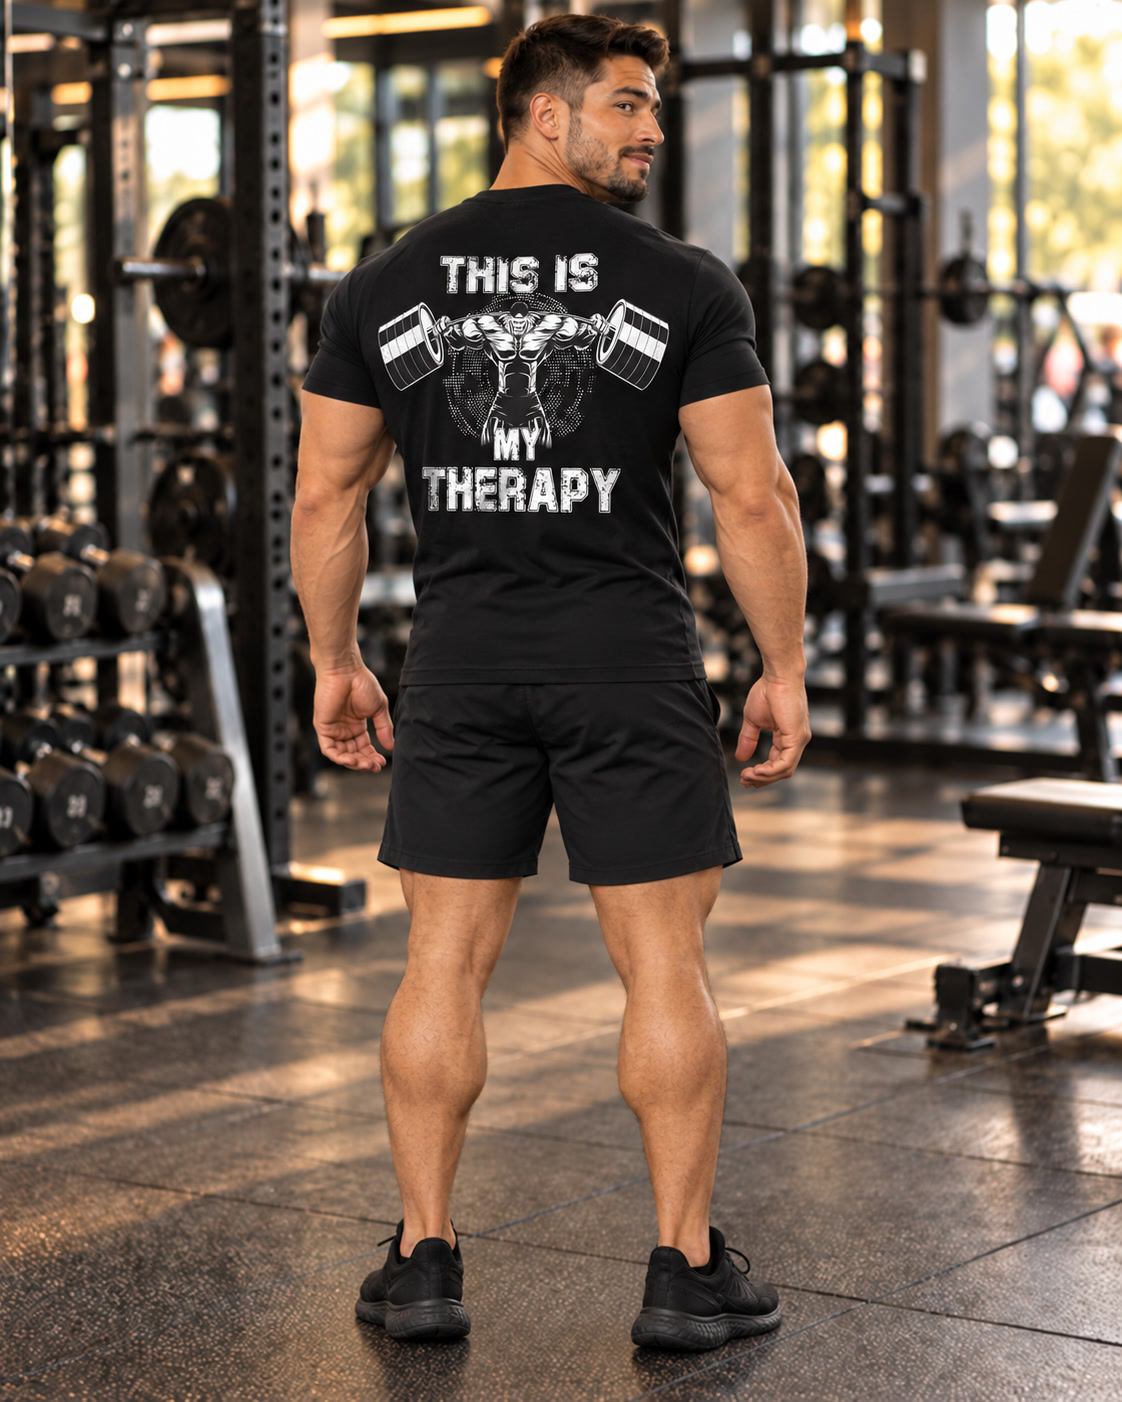
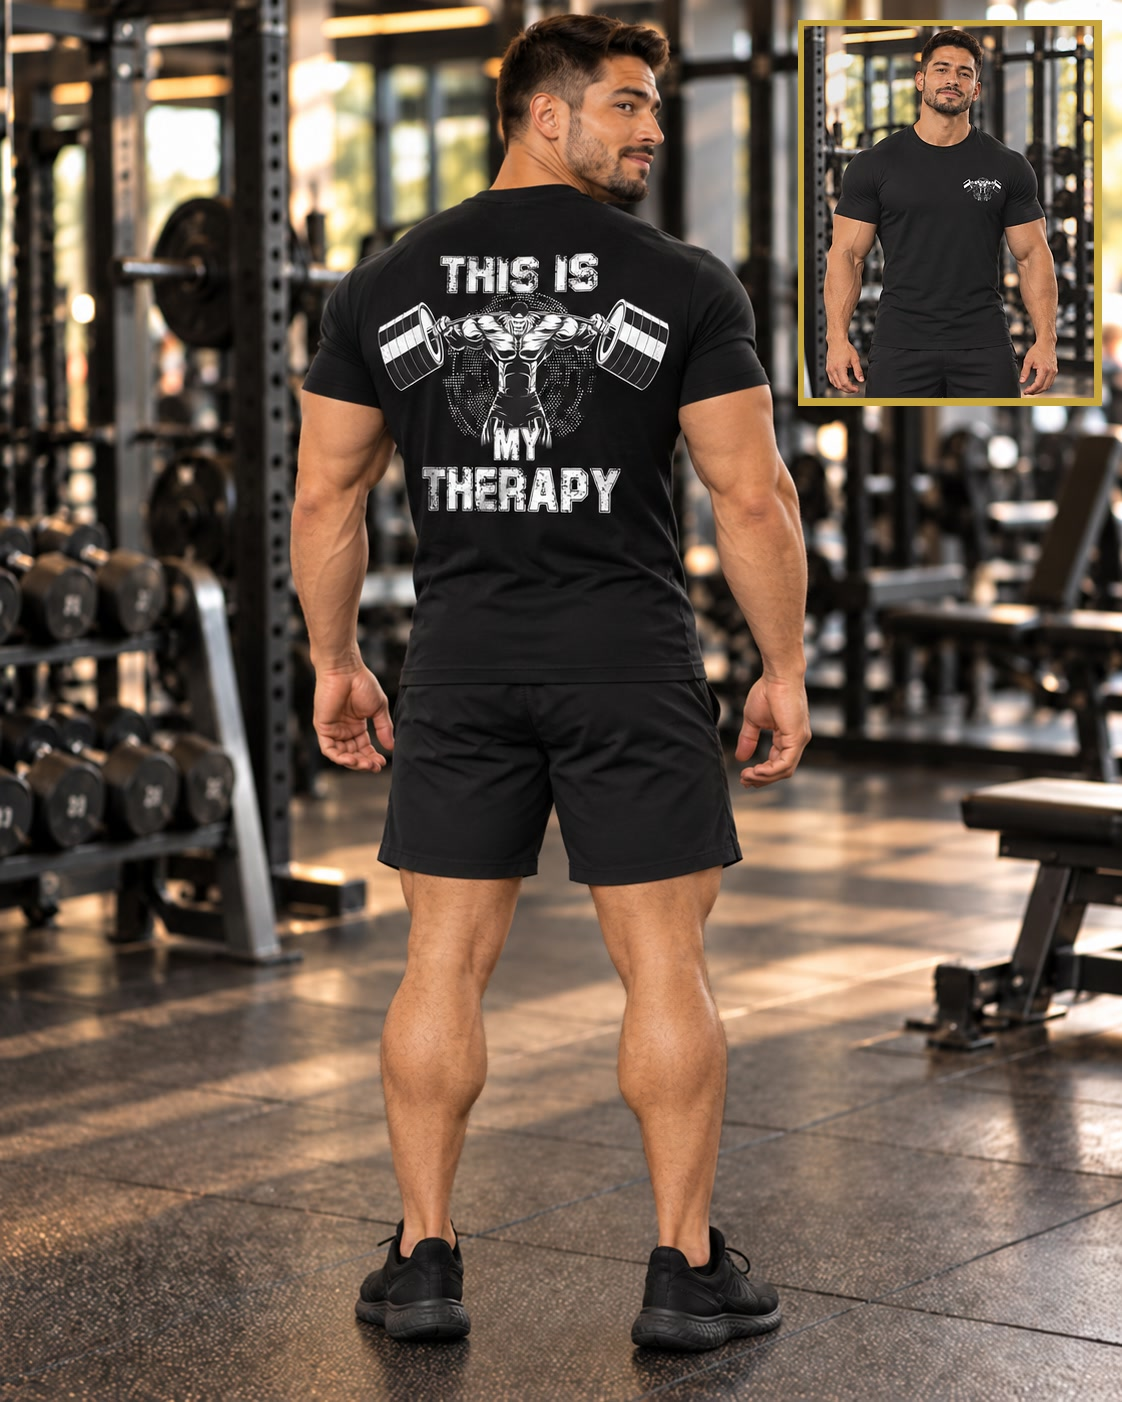
Tienda: cuadro de frente en la polera This is my therapy
Claude-Session: https://claude.ai/code/session_013ZgZPSRHEDhMsqmx8Km842

Changed region(s): [[0.6863, 0.0, 0.9982, 0.3067]]

diff --git a/tienda.html b/tienda.html
@@ -221,7 +221,7 @@ function hoyISO(){ return new Intl.DateTimeFormat("en-CA", { timeZone:"America/S
 function ahoraTxt(){ var f = new Intl.DateTimeFormat("sv-SE", { timeZone:"America/Santiago", year:"numeric", month:"2-digit", day:"2-digit", hour:"2-digit", minute:"2-digit" }).format(new Date()); return f.replace("T", " ").slice(0, 16); }
 function normTxt(s){ return String(s || "").toUpperCase().normalize("NFD").replace(/[̀-ͯ]/g, ""); }
 /* Al cambiar una foto en img/tienda/ (mismo nombre), subir FOTO_V para que los teléfonos no muestren la antigua. */
-var FOTO_V = "25";
+var FOTO_V = "26";
 function fotoUrl(f){ return f ? f + (f.indexOf("?") < 0 ? "?v=" + FOTO_V : "") : ""; }
 function iconoCat(c){ var x = CATS.filter(function(k){ return k[0] === c; })[0]; return x ? x[1] : "📦"; }
 function toast(t, ms){ var el = $("toast"); el.textContent = t; el.style.display = "block"; clearTimeout(toast.t); toast.t = setTimeout(function(){ el.style.display = "none"; }, ms || 2600); }
@@ -303,7 +303,7 @@ setInterval(function(){ if(pend.length) enviarPendientes(); }, 30000);
    el computador"): los datos se vuelven a pedir a la planilla cada 30 s mientras la página está a la vista (sin una ficha
    abierta), y cada minuto se revisa tienda-version.txt: si hay una versión nueva de la página, se recarga sola.
    Cada vez que se cambie tienda.html, subir TIENDA_VERSION y tienda-version.txt juntos (AAAAMMDDNN). */
-var TIENDA_VERSION = "2026102517";
+var TIENDA_VERSION = "2026102518";
 setInterval(function(){ if(clave && !document.hidden && $("velo").hidden && !$("app").hidden) enviarPendientes().then(function(){ cargar(true); }); }, 30000);
 function revisarVersion(){
  fetch("tienda-version.txt?t=" + Date.now(), { cache:"no-store" }).then(function(r){ return r.ok ? r.text() : ""; }).then(function(v){

diff --git a/CLAUDE.md b/CLAUDE.md
@@ -1533,7 +1533,7 @@ Versión 23). Celular y compu ven el mismo inventario.
   guardado como «Ropa deportiva» se muestra como «Ropa mujer»; en los enlaces usar `cat=Ropa%20mujer` o `cat=Ropa%20hombre`).
   Ropa deportiva de mujer (24-10-2026): cada talla y color es un producto aparte con su código 200… (la ropa no trae
   código). Conjunto Gym Work 3 piezas blanco/negro M ($13.609 → $22.000; foto de espaldas con la modelo + cuadro con la foto original del conjunto, en 900 px de alto), Short scrunch M.Minute negro S (foto `img/tienda/short-scrunch-negro.jpg`, con modelo + cuadro de espalda) y azul oscuro S (foto `img/tienda/short-scrunch-azul.jpg`, igual)
-  (pack de 2 por $7.512 → $3.756 c/u, venta $9.000), Conjunto Easithlete negro M ($8.568; foto con la modelo + cuadro de la espalda, 900 px), Leggings Yefecy negro M ($11.001 → $16.000; foto con modelo de frente + cuadro de espalda), Conjunto Easithlete a $15.000; short negro a $10.000. Ropa de hombre: Polera «Stronger every day» negra M ($7.204 → $13.000; modelo hombre de espaldas + cuadro de frente), Polera Rise LYT raglán negra M ($6.701 → $14.000; modelo hombre de espaldas + cuadro de frente; adelante el diseño de espinas ancho; atrás uno distinto, grande, con alas arriba y una punta larga por la columna), Polera Gym Rark «Never give up» negra M ($7.793 → $15.000; modelo de espaldas + cuadro de frente con el toro), Polera de compresión Gym Rark negra M ($7.051 → $13.000; modelo de espaldas: cuernos blancos grandes + franja roja larga por la columna; cuadro con el mismo modelo de frente con «AGILITY», hecho en ChatGPT), Polera «This is my therapy» negra L ($7.323 → $14.000; modelo de espaldas; adelante lleva el toro chico en el pecho izquierdo), Musculosa «//Strength» blanca y negra M ($8.000 → $11.000; foto con modelo hombre de ChatGPT), Musculosa «Boston EST.1997» gris M ($8.000 → $12.000), Musculosa Batman blanca M ($8.000 → $11.000). Ropa mujer: Polera Cherry rosada crop S ($3.000 → $6.000) y Polera tie-dye negra y blanca crop S ($2.000 → $5.000), Calza flare camuflaje S-M ($7.000 → $10.000; modelo con el camuflaje verde oliva real + cuadro de espalda), Calza leopardo con malla S ($8.000 → $12.000; modelo de frente + cuadro de espalda hecho en ChatGPT), Calza tie-dye azul y amarilla M ($8.000 → $11.000; foto con modelo de lado + cuadro de frente); fotos con modelo hechas por la dueña en ChatGPT. Suplementos en pausa.
+  (pack de 2 por $7.512 → $3.756 c/u, venta $9.000), Conjunto Easithlete negro M ($8.568; foto con la modelo + cuadro de la espalda, 900 px), Leggings Yefecy negro M ($11.001 → $16.000; foto con modelo de frente + cuadro de espalda), Conjunto Easithlete a $15.000; short negro a $10.000. Ropa de hombre: Polera «Stronger every day» negra M ($7.204 → $13.000; modelo hombre de espaldas + cuadro de frente), Polera Rise LYT raglán negra M ($6.701 → $14.000; modelo hombre de espaldas + cuadro de frente; adelante el diseño de espinas ancho; atrás uno distinto, grande, con alas arriba y una punta larga por la columna), Polera Gym Rark «Never give up» negra M ($7.793 → $15.000; modelo de espaldas + cuadro de frente con el toro), Polera de compresión Gym Rark negra M ($7.051 → $13.000; modelo de espaldas: cuernos blancos grandes + franja roja larga por la columna; cuadro con el mismo modelo de frente con «AGILITY», hecho en ChatGPT), Polera «This is my therapy» negra L ($7.323 → $14.000; modelo de espaldas + cuadro de frente; adelante lleva el toro chico en el pecho izquierdo), Musculosa «//Strength» blanca y negra M ($8.000 → $11.000; foto con modelo hombre de ChatGPT), Musculosa «Boston EST.1997» gris M ($8.000 → $12.000), Musculosa Batman blanca M ($8.000 → $11.000). Ropa mujer: Polera Cherry rosada crop S ($3.000 → $6.000) y Polera tie-dye negra y blanca crop S ($2.000 → $5.000), Calza flare camuflaje S-M ($7.000 → $10.000; modelo con el camuflaje verde oliva real + cuadro de espalda), Calza leopardo con malla S ($8.000 → $12.000; modelo de frente + cuadro de espalda hecho en ChatGPT), Calza tie-dye azul y amarilla M ($8.000 → $11.000; foto con modelo de lado + cuadro de frente); fotos con modelo hechas por la dueña en ChatGPT. Suplementos en pausa.
   Bebestibles en pausa hasta que llegue más mercadería. Un enlace `?nuevo=1` con un código que ya existe abre ese producto (aunque cambie el nombre). **En los enlaces, todo carácter no ASCII va codificado (á → %C3%A1)**: el de la polera Rise LYT llevaba «raglán» sin codificar, el chat volvió a codificar el enlace y el producto quedó «Polera%20Rise…» en Bebestibles; desde el 24-10-2026 `sinPorcentajes` decodifica los parámetros y `repararCodificados` arregla y vuelve a guardar los nombres que quedaron con %XX.
   **Todo se actualiza solo (24-10-2026, la dueña: "si hago una modificación en el celular, que se cambie igual en el
   computador"):** los datos se piden a la planilla cada 30 s si la página está a la vista y sin ficha abierta, y cada
